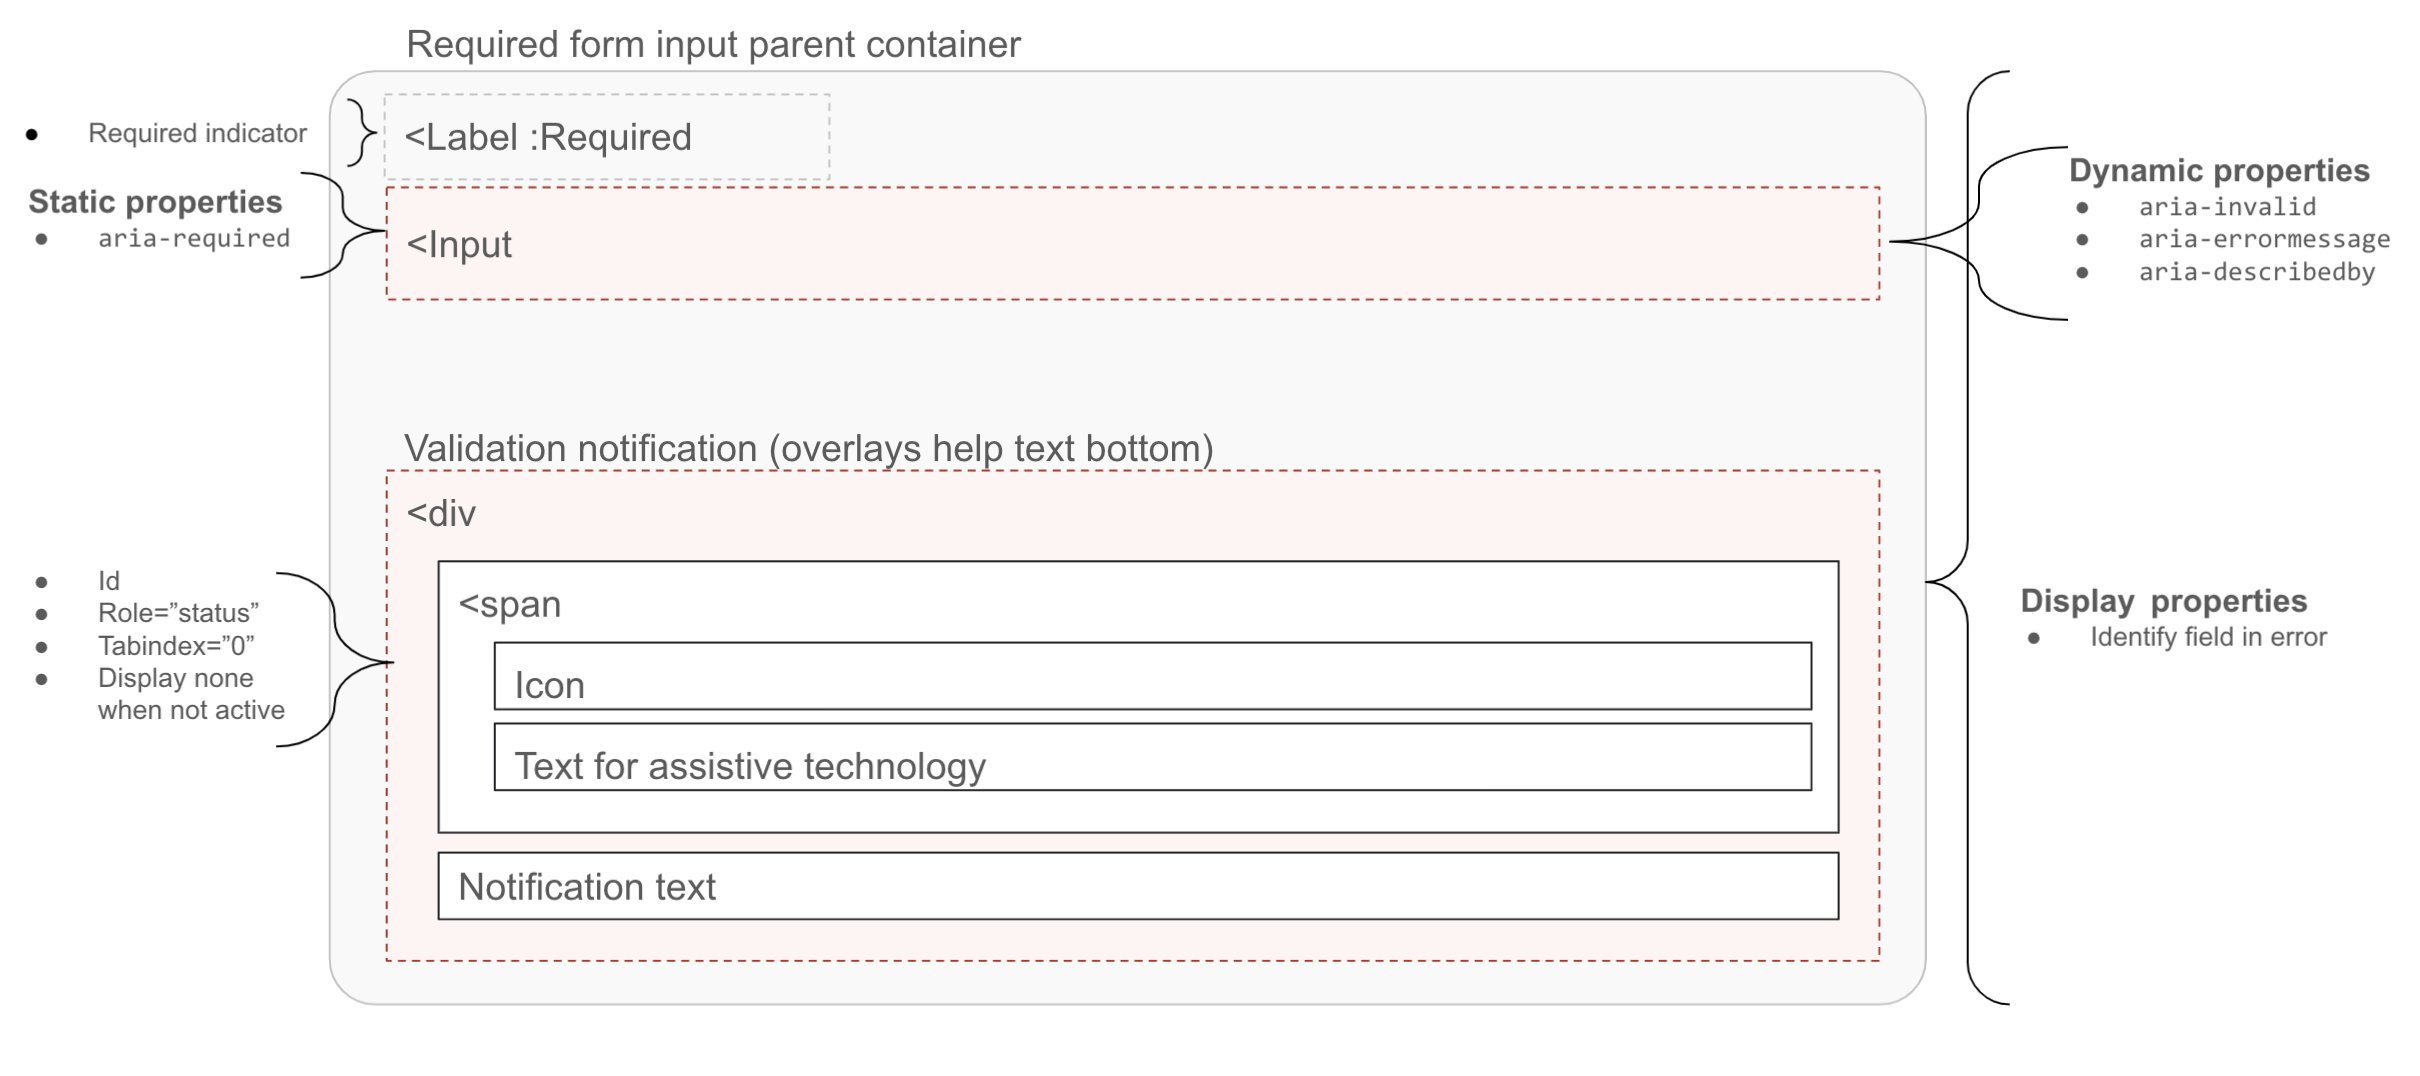
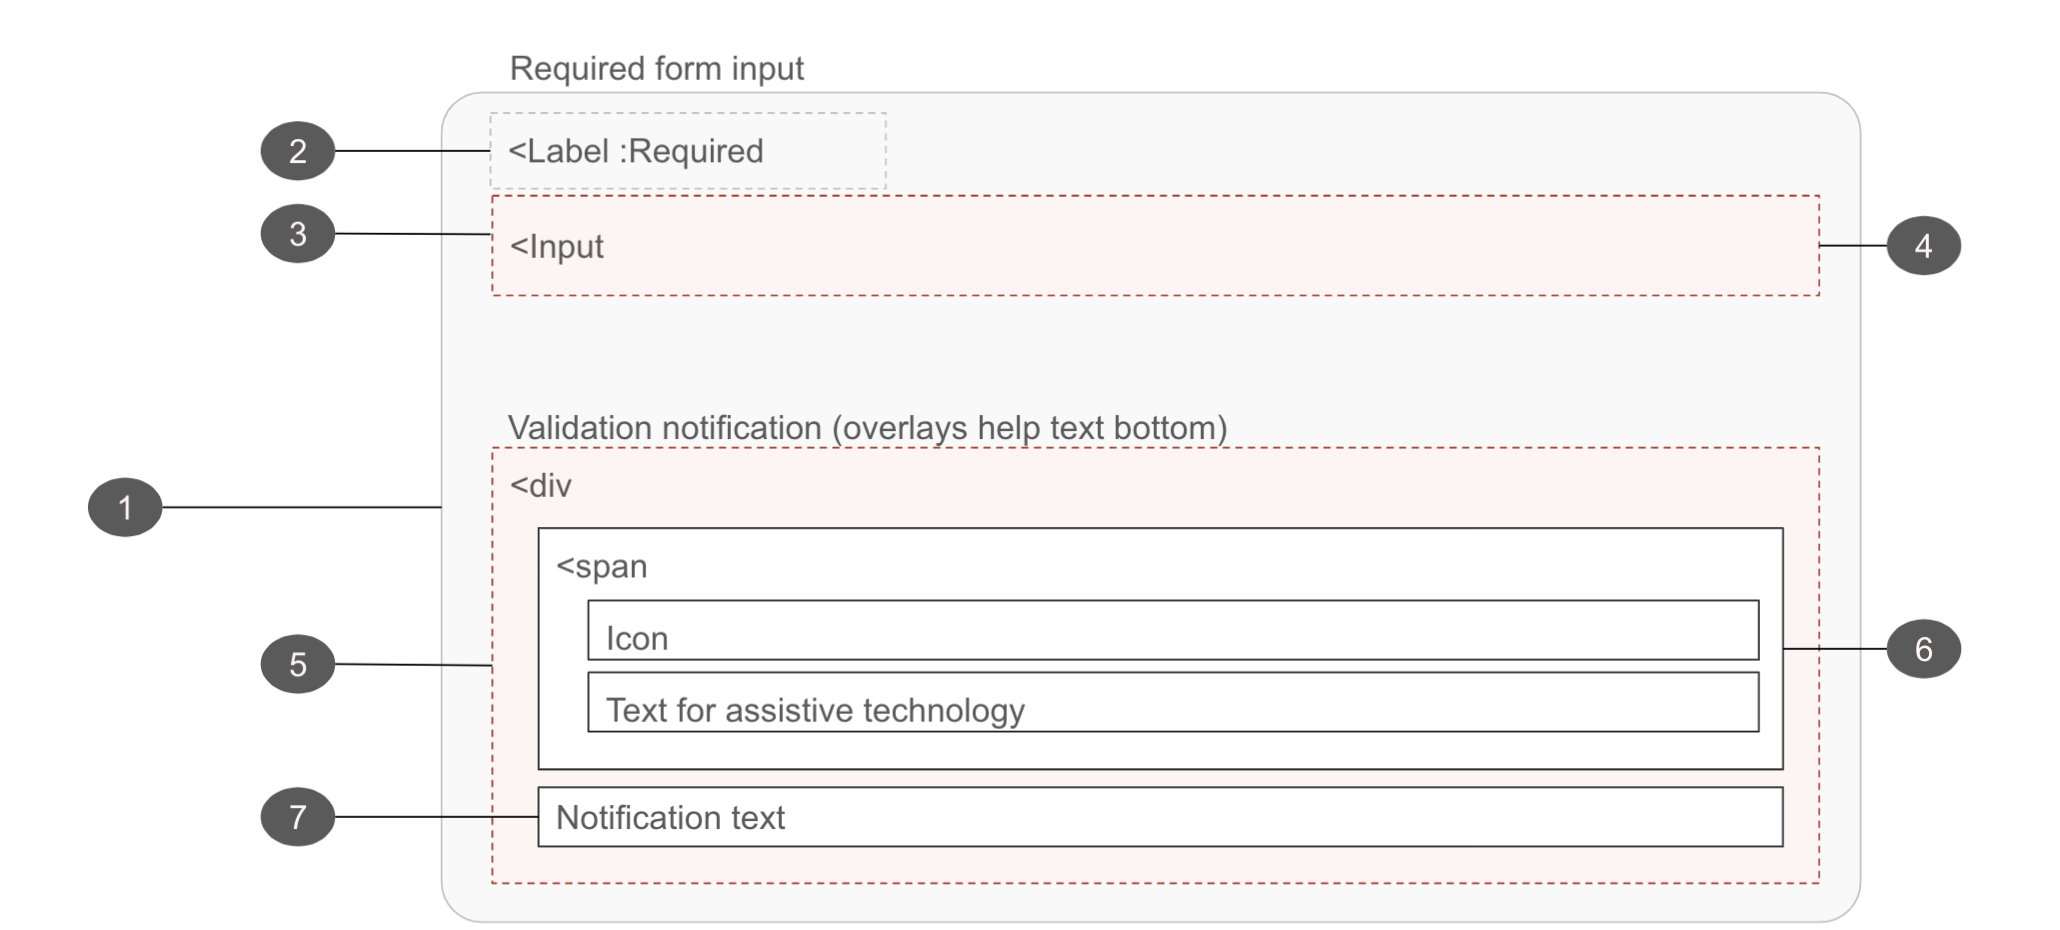
validation orginization and pruning

diff --git a/docs/patterns/notifications/README.md b/docs/patterns/notifications/README.md
@@ -355,28 +355,110 @@ elements on the page and where possible should be added to the DOM under the ele
 
 <cdr-img :src="$withBase('/notifications/validationAnatomy.png')" alt="Diagram showing the required layout of the elements listed below" />
 
-#### Constructing Validation Notifications
+1. **[Validating a required form field](#validating-a-required-form-field)**
+2. **[Required Fields Display](#required-fields-display)**
+3. **[Required Form Fields Static properties](#required-form-fields-static-properties)**
+4. **[On validation](#on-validation)**
+5. **[Notification Instruction container](#notification-instruction)**
+6. **visual aid and Assistive technology text**
+7. **[Instruction](#instruction)**
+#### Validating a required form field
 
 Validation Notifications used to present instructions on user errors have specific accessibility requirements. These include:
 
 - **Must**
   - Identify each field in error
   - Providing suggestions (when known) to correct the errors
-  - Succinctly describe how a user can resolve the problem.
   - Preserve as much user-entered input as possible
-  - Help users understand how to fix problems
-  - provide specific as possible
-  - Ensure the message container can receive focus
-  - Include the `aria-live` or `role=”status”` markup to announce the notification without interrupting the page flow of the user
-
 -  **Should**
   - Correctly filled out user provided data in a form that contains errors **SHOULD** remain populated post-submit.
   - Confirm successful submission of data.
-  - Provide an explanation to the user when the submit button is not available
+  - Provide an explanation to the  when user when the submit button is not available
 - **Should Not**
   - rely solely on visual cues to indicate an error
   - alter the user provided input to make it validate without providing the user with a validation message conveying this change
-##### Role status or aria-live
+
+#### Required Fields Display
+The Asterisks may not be read by all screen readers (in all reading modes) and may be difficult for users with low vision because they are rendered in a smaller size than default text.
+It is important for authors to include the text indicating that asterisk is used and to consider increasing the size of the asterisk that is presented.
+
+- **Should**
+  - Require only fields that are absolutely needed
+  - Required fields **SHOULD** have a visual indicator that the field is required.
+  - Ensure that information conveyed by color differences is also available in text.
+
+#### Required Form Fields Static properties
+
+- **Must**
+  - Set `Required` or `aria-required` to true for inputs that must be completed by the user
+- **Should**
+  - Require only fields that are absolutely needed
+  - Required fields **SHOULD** be programmatically designated as such. Note: At a minimum, WCAG requires an informative error message about the field after the user submits the form.
+  - Ensure assistive technology is provided text conveying that the field is required
+
+##### aria-required or required 
+
+#### On validation
+- **Must**
+  - Identify each field in error
+  - Preserve as much user-entered input as possible
+  - set [aria-invalid]() to `true`
+  - map the associated id of the notification instruction to the [aria-errormessage](aria-errormessage) attribute for each field in error
+- **May**
+  - also use '[aria-describedby]()' in conjunction with [aria-errormessage](aria-errormessage)
+##### aria-errormessage
+The `aria-errormessage` attribute takes an ID reference in the same manner as `aria-describedby`, and is only exposed when aria-invalid is set to ‘true’ on the same element. The use of a live region attribute such as aria-live=”polite” on the error message container element is optional.
+
+Placed on input and mapped via id to error message.
+used to:
+  - Associate instructions with form fields
+  - Provide information on the outcome of an action
+  - To provide verbal information that may be conveyed via visual cues 
+  - associate tooltips to form fields
+
+- Error feedback SHOULD be programmatically-associated with the appropriate element.
+- When `aria-errormessage` is pertinent, authors MUST ensure the content is not hidden
+- Authors MUST either ensure the content is hidden or remove the aria-errormessage attribute or its value.
+- User agents MUST NOT expose aria-errormessage for an object with an aria-invalid value of false.
+#### Notification Instruction 
+WCAG 1.3.3, WCAG 3.3.2 provide the following guidelines for validation instructions.
+When users enter input that is validated, and errors are detected, the nature of the error needs 
+to be described to the user in manner they can access. One approach is to present an alert dialog 
+that describes fields with errors when the user attempts to submit the form. Another approach, 
+if validation is done by the server, is to return the form (with the user's data still in the fields) 
+and a text description at the top of the page that indicates the fact that there was a validation problem, 
+describes the nature of the problem, and provides ways to locate the field(s) with a problem easily. 
+The "in text" portion of the Success Criterion underscores that it is not sufficient simply to indicate 
+that a field has an error by putting an asterisk on its label or turning the label red. 
+A text description of the problem should be provided.
+
+- **Must**
+  - Providing suggestions (when known) to correct the errors
+  - Ensure the message container can receive focus
+  - Include the [`aria-live` or `role=”status”`](role-status-or-aria-live) markup to announce the notification without interrupting the page flow of the user
+- **Should**
+  - be visually and programmatically adjacent to the element.
+- **Should Not**
+  - rely solely on visual cues to indicate an error
+- **May**
+  - Be hidden until the user requests them if the notification instructions are not critical.
+##### Instruction
+
+- **Must**
+  - Be available as programmatically-discernible text
+  - Be meaningful
+  - Be visible
+  - Clearly and accurately describe the error and/or how to fix the error.
+  - Succinctly describe how a user can resolve the problem.
+  - Help users understand how to fix problems
+  - provide instruction that is as specific as possible
+- **Must Not**
+  - Rely solely on references to sensory characteristics (for example, "round button" or "button to the right")
+-  **Should**
+  - Provide an explanation to the  when user when the submit button is not available
+  - if the text does not specifically call out the state of the message, error, warning, success, or info - that text should be provided via screen reader accessible text
+
+##### Role status / aria-live
 
 -  **Should Not**
   - Be scripted to occur with every keystroke unless there is a delay built into the script to avoid announcements while the user is actively typing.
@@ -388,40 +470,16 @@ Validation Notifications used to present instructions on user errors have specif
   - Be scripted to show on the screen for sighted users, but attempts to announce the real-time messages to screen reader users
     can be problematic. It is usually acceptable to wait to announce
     real-time errors until after form submission, assuming that no data has been saved yet.
-##### Notification Instructions Required WCAG 1.3.3, WCAG 3.3.2
 
-- **Must**
-  - Be available as programmatically-discernible text
-  - Be meaningful
-  - Be visible Visible
-  - Clearly and accurately describe the error and/or how to fix the error.
-- **Should**
-  - be visually and programmatically adjacent to the element.
-  - if the text does not specifically call out the state of the message, error, warning, success, or info - that text should be provided via screen reader accessible text
-- **Must Not**
-  - Rely solely on references to sensory characteristics (for example, "round button" or "button to the right")
-- **May**
-  - Be hidden until the user requests them if the notification instructions are not critical.
-
-When users enter input that is validated, and errors are detected, the nature of the error needs 
-to be described to the user in manner they can access. One approach is to present an alert dialog 
-that describes fields with errors when the user attempts to submit the form. Another approach, 
-if validation is done by the server, is to return the form (with the user's data still in the fields) 
-and a text description at the top of the page that indicates the fact that there was a validation problem, 
-describes the nature of the problem, and provides ways to locate the field(s) with a problem easily. 
-The "in text" portion of the Success Criterion underscores that it is not sufficient simply to indicate 
-that a field has an error by putting an asterisk on its label or turning the label red. 
-A text description of the problem should be provided.
-
-##### Inline Client Validation Notifications
+#### Inline Client Validation Notifications
 client-side validation results in a better user experience and makes resolving validation errors more understandable.
 
-##### Error Suggestion
+#### Error Suggestion
 - **Must**
   - If an input error is automatically detected, the item that is in error is identified and the error is described to the user in text WCAG 3.3.3
 
 https://www.w3.org/TR/UNDERSTANDING-WCAG20/minimize-error-suggestions.html
-##### Error Prevention
+#### Error Prevention
 If the form is submitting any of the following:
 
 -  legal commitments
@@ -434,7 +492,7 @@ we are required to implement at least one of the following error prevention tech
 -  Checked: Data entered by the user is checked for input errors and the user is provided an opportunity to correct them.
 -  Confirmed: A mechanism is available for reviewing, confirming, and correcting information before finalizing the submission.
 
-##### Error Detection
+#### Error Detection
 
 **aria-invalid**
 indicate that the value entered into an input field does not conform to the format expected by the application. This may include formats such as email addresses or telephone numbers. aria-invalid can also be used to 
@@ -457,21 +515,8 @@ The attribute should be programmatically set as a result of a validation process
 
   - with information about the error in the page `<title>` if the submission causes a page reload or a new page load.
 
-**aria-errormessage**
 
-
-Placed on input and mapped via id to error message.
-used to:
-  - Associate instructions with form fields
-  - Provide information on the outcome of an action
-  - To provide verbal information that may be conveyed via visual cues 
-  - associate tooltips to form fields
-
-- Error feedback SHOULD be programmatically-associated with the appropriate element.
-- When `aria-errormessage` is pertinent, authors MUST ensure the content is not hidden
-- Authors MUST either ensure the content is hidden or remove the aria-errormessage attribute or its value.
-- User agents MUST NOT expose aria-errormessage for an object with an aria-invalid value of false.
-##### Success Detection
+#### Success Detection
 Use at least one of the following techniques:
 
 -  Confirmation text on the web page 
@@ -545,18 +590,7 @@ TODO- something about how we only provide the UI/container but not validation lo
 
 
 ## Move to Form doc as these are not specific to the notification validation topic but to the broader Form validation
-##### Required Fields
-The Asterisks may not be read by all screen readers (in all reading modes) and may be difficult for users with low vision because they are rendered in a smaller size than default text.
-It is important for authors to include the text indicating that asterisk is used and to consider increasing the size of the asterisk that is presented.
 
-- **Must**
-  - Set `Required` or `aria-required` to true for inputs that must be completed by the user
-- **Should**
-  - Require only fields that are absolutely needed
-  - Required fields **SHOULD** have a visual indicator that the field is required.
-  - Required fields **SHOULD** be programmatically designated as such. Note: At a minimum, WCAG requires an informative error message about the field after the user submits the form.
-  - Ensure that information conveyed by color differences is also available in text.
-  - Provide screen reader text conveying that the field is required
 
 ##### Disabled elements
 
